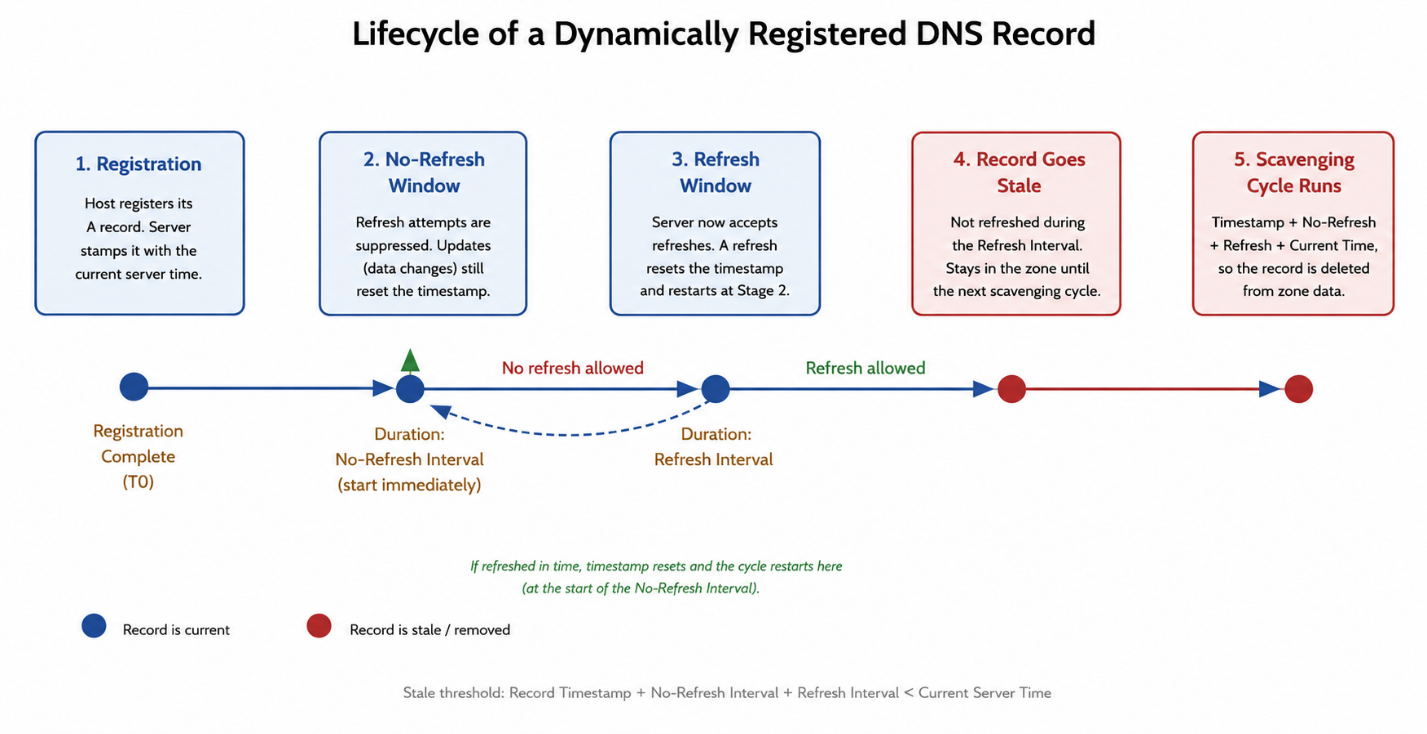
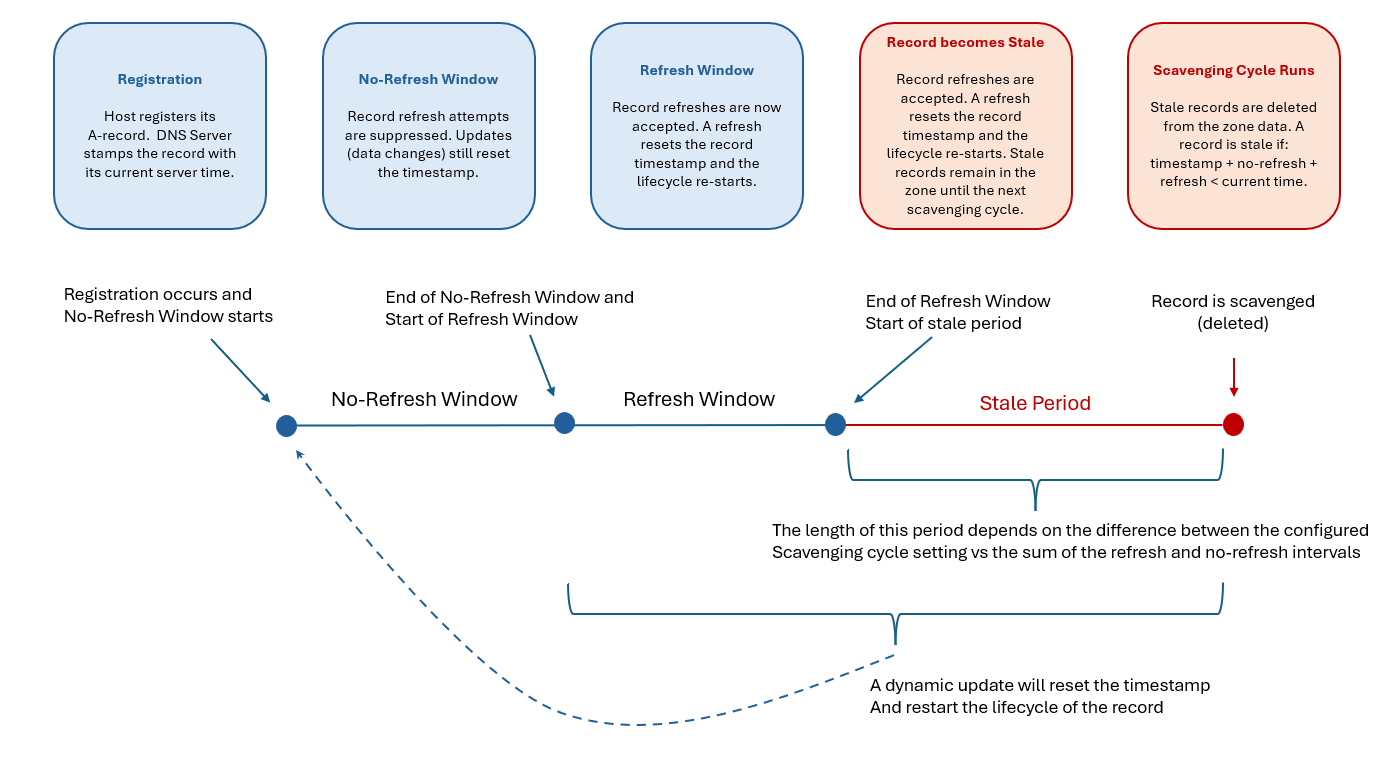
Update DNS aging and scavenging articles per SME feedback (#8421)
* Update DNS aging and scavenging articles per SME feedback

Apply the engineering/PM tracked changes: rename the term to 'available for scavenging time', standardize on 'scavenging pass', add scheduling, manual-pass, and zone-skip detail to When scavenging can start, refine the event-log timing guidance, add foundational prerequisites context, and various rewordings across both articles. Bump ms.date and add keywords.

* Updated WindowsServerDocs\networking\media\aging-scavenging\aging-scavenging-process.png

* Apply engineering review amendments to DNS aging and scavenging articles

Concept: drop redundant intro paragraph in stale-records section and add bold problem labels; move the 'aging never deletes' note into What aging does; clarify how a static record can gain a nonzero timestamp; tighten What scavenging does; trim the conditions summary; alphabetize the terminology table. How-to: broaden a prerequisite to DNS records, refine scavenging-server wording, and add a back-up-server-configuration best practice. Holds the 'Protect a record' note pending SME clarification of a timestamp-behavior conflict.

* Correct zero-timestamp record behavior and add PowerShell parity for aging and scavenging
[…]

diff --git a/WindowsServerDocs/networking/dns/aging-scavenging.md b/WindowsServerDocs/networking/dns/aging-scavenging.md
@@ -1,12 +1,13 @@
 ---
 title: DNS aging and scavenging in Windows Server
 description: Learn how DNS aging and scavenging in Windows Server find and remove stale resource records, including terminology, intervals, and the record lifecycle.
+keywords: ["DNS aging and scavenging", "stale resource records", "no-refresh interval", "refresh interval", "scavenging period", "available for scavenging time", "when scavenging can start"]
 ms.topic: concept-article
 author: robinharwood
 ms.author: roharwoo
-ms.date: 08/14/2026
+ms.date: 09/16/2026
 ai-usage: ai-assisted
-# Customer intent: As a DNS or AD DS administrator, I want to understand how aging and scavenging decide when a record is stale, so that I can enable them safely without deleting valid records.
+#customer intent: As a DNS or AD DS administrator, I want to understand how aging and scavenging decide when a record is stale, so that I can enable them safely without deleting valid records.
 ---
 
 # DNS aging and scavenging
@@ -15,19 +16,17 @@ DNS aging and scavenging are two DNS Server features in Windows Server that work
 
 With dynamic update, resource records are added to zones automatically, for example when computers join the network. But only an administrator or the aging and scavenging process removes these records. Without cleanup, stale records accumulate and cause name resolution problems.
 
-Aging and scavenging apply to Active Directory–integrated zones too. Active Directory Domain Services (AD DS) uses multi-master replication to propagate record additions, timestamp updates, and scavenged deletions to the DNS servers that host the zone within its replication scope. Replication itself doesn't remove stale records, so you still need aging and scavenging to identify and remove them.
+Aging and scavenging also apply to Active Directory–integrated zones. Active Directory replication alone doesn't remove stale records, so you still need these features on integrated zones.
 
 This article explains the terminology, intervals, and record lifecycle that aging and scavenging use to decide when a record is stale. Understanding these mechanics helps you enable the features with confidence, without deleting records that are still in use.
 
 ## Why stale records are a problem
 
-With dynamic update, resource records are automatically added to zones when computers start on the network, but they aren't always removed when computers leave. For example, if a computer registers its host (A) resource record at startup and is later improperly disconnected from the network, its host (A) resource record might not be deleted. On networks with mobile users and computers, this situation can occur frequently.
-
 If left unmanaged, stale resource records in zone data can cause the following problems:
 
-- DNS servers with stale resource records might use outdated information to answer client queries, which causes clients to experience name resolution problems on the network.
-- Many stale resource records can take up server disk space and cause long zone transfers.
-- The accumulation of stale resource records can degrade the DNS server's performance and responsiveness.
+- **Incorrect name resolution.** DNS servers with stale records might use outdated information to answer client queries, causing name resolution problems on the network.
+- **Higher zone storage and replication traffic.** Large numbers of stale records take up server disk space, make zone transfers take longer, and add load on the network.
+- **Performance degradation.** Accumulated stale records can degrade DNS server performance and responsiveness.
 
 > [!WARNING]
 > By default, aging and scavenging are disabled for the DNS Server service. Enable them only after you fully understand all the parameters. Accidental misconfiguration can delete legitimate records, leaving users unable to resolve those DNS records.
@@ -38,18 +37,18 @@ Aging and scavenging are two independent but complementary mechanisms. You must 
 
 ### What aging does
 
-Aging determines whether an incoming dynamic update can refresh the timestamp of a DNS record. Aging uses the no-refresh interval to decide whether a timestamp update is eligible. If a dynamic refresh arrives earlier than the record timestamp plus the no-refresh interval, the server discards it.
+Aging determines whether an incoming dynamic update can refresh the timestamp of a DNS record. Aging uses the no-refresh interval to decide whether a timestamp update is eligible. If a dynamic refresh arrives earlier than the record timestamp plus the no-refresh interval, the server discards it. Aging alone never deletes records; it only tracks timestamps.
 
 The DNS server distinguishes two kinds of records by their timestamp:
 
 - **Dynamic records (timestamp isn't zero)**: Records added through dynamic update. The timestamp represents the date and hour of the last allowed refresh or update.
-- **Static records (timestamp is zero)**: Records added manually or from a text-based zone file. The server assigns these records a timestamp of zero, so they aren't eligible for scavenging unless you later allow dynamic updates for the record, at which point the server can assign a timestamp during a subsequent update.
+- **Static records (timestamp is zero)**: Records added manually or from a text-based zone file get a timestamp of zero, so they aren't eligible for scavenging. Such a record can still receive dynamic updates to its data, such as a new IP address, but its timestamp stays zero, so it remains excluded from scavenging.
+
+You can also make the server treat a static record as a dynamic record by manually setting its timestamp to a nonzero value.
 
 ### What scavenging does
 
-Scavenging deletes stale records. It considers only records that have a nonzero timestamp, so it can scavenge only dynamic records. Scavenging is optional, but when you enable it, it runs automatically and periodically.
-
-Scavenging examines resource records and deletes the records that it identifies as stale. It determines the stale condition from the age that the aging process assigns to each record.
+Scavenging deletes stale records. It examines resource records and deletes the records it identifies as stale. Scavenging determines each record's stale condition from the age that the aging process assigns to the record.
 
 ### Conditions for scavenging a record
 
@@ -60,7 +59,7 @@ Scavenging removes a record only when it meets all four of the following conditi
 - The resource record is eligible (it has a nonzero timestamp).
 - The record timestamp plus the no-refresh interval plus the refresh interval is earlier than the current server time.
 
-Aging alone never deletes records; it only tracks timestamps. Scavenging runs automatically as scheduled even when aging is disabled, but it skips any zone that has aging disabled and takes no action on records in those zones, even records whose timestamps would otherwise mark them as stale. You must enable both aging and scavenging to clean up stale records automatically on a given zone.
+Scavenging runs automatically as scheduled even when aging is disabled, but it skips any zone that has aging disabled and takes no action on records in those zones, even records whose timestamps would otherwise mark them as stale.
 
 ## Terminology and intervals
 
@@ -68,20 +67,20 @@ The following terms apply when you discuss aging and scavenging.
 
 | Term | Definition |
 |---|---|
+| Active Directory replication scope | The setting that defines which DNS servers receive an Active Directory–integrated zone through AD DS replication. The zone can replicate to all DNS servers running on domain controllers in the domain or forest, or to all domain controllers in the domain for Windows 2000 compatibility. |
+| Available for scavenging time | A per-zone attribute that represents the earliest time at which the zone can participate in a scavenging pass. When you enable aging or change its settings, the server calculates it as: current server time (rounded down to the nearest hour) + the zone's refresh interval. Reaching this time doesn't itself start a scavenging pass on the zone or guarantee that the server deletes any records in it. For the formula, see [When scavenging can start](#when-scavenging-can-start). |
 | Current server time | The current date and time on the DNS server. It serves as the reference point for all aging calculations. |
-| No-refresh interval | The period after the server sets a record's timestamp, during which the server doesn't accept a timestamp refresh. This period reduces unnecessary replication traffic. The server acknowledges a same-data refresh as successful, but no database write occurs and the timestamp doesn't change. The server still writes updates that change record data. The default is 7 days. |
-| Refresh interval | The period after the no-refresh interval during which the server accepts a refresh. If the record isn't refreshed before this period ends, it becomes stale. The default is 7 days. |
-| Record refresh | A dynamic update that leaves the host name and IP address unchanged and revises only the timestamp. The server blocks refreshes during the no-refresh interval. |
-| Record update | A dynamic update in which the record data changes, such as a new IP address. The server always accepts updates, even during the no-refresh interval, and they reset the timestamp. |
-| Scavenging period | The interval between automatic scavenging operations on a DNS server. The default is 7 days and the minimum is 1 hour. It resets whenever the DNS service restarts. |
-| Start scavenging time | A per-zone value that indicates when the zone first becomes eligible for scavenging. For the formula, see [When scavenging can start](#when-scavenging-can-start). |
-| Resource record timestamp | The date and time value stamped on a record, to the nearest hour, by the aging process or manually by an administrator. Scavenging uses it to determine whether the record is stale. |
-| Scavenging servers | An optional advanced zone parameter that configures which DNS server IP addresses can scavenge the zone. By default, every DNS server that hosts the zone can scavenge it. |
+| Directory polling interval | The interval at which the DNS Server service polls Active Directory for changes that other domain controllers make. Polling lets the DNS server detect and load updates that replicate through Active Directory. |
 | dnsNode | An Active Directory object that represents a DNS name within an Active Directory–integrated zone. A `dnsNode` can contain one or more DNS records for the same host name. For example, a `dnsNode` object represents a host named `server1.contoso.com` and can contain A, AAAA, or other record types. |
 | dnsRecord | The DNS record data stored within a `dnsNode` object, such as A, AAAA, CNAME, MX, and PTR records. Active Directory–integrated zones store record data, timestamps, and aging information as attributes of the `dnsNode` object. |
-| dnsTombstoned | An Active Directory attribute that marks a `dnsNode` as logically deleted after scavenging, an administrator, or an authorized dynamic update removes its last record. The DNS Server service sets the attribute, and then AD DS replicates the tombstoned object before permanently removing it. |
-| Active Directory replication scope | The setting that defines which DNS servers receive an Active Directory–integrated zone through AD DS replication. The zone can replicate to all DNS servers running on domain controllers in the domain or forest, or to all domain controllers in the domain for Windows 2000 compatibility. |
-| Directory polling interval | The interval at which the DNS Server service polls Active Directory for changes that other domain controllers make. Polling lets the DNS server detect and load updates that replicated through Active Directory. |
+| dnsTombstoned | An Active Directory attribute that marks a `dnsNode` as logically deleted after scavenging, an administrator, or an authorized dynamic update removes its last record. The DNS Server service sets the attribute, and then Active Directory Domain Services (AD DS) replicates the tombstoned object before permanently removing it. |
+| No-refresh interval | The period after the server sets a record's timestamp, during which the server doesn't accept a timestamp refresh. This period reduces unnecessary replication traffic. The server acknowledges a same-data refresh as successful, but no database write occurs and the timestamp doesn't change. The server still writes updates that change record data. The default is 7 days. |
+| Record refresh | A dynamic update that leaves the host name and IP address unchanged and revises only the timestamp. The server blocks refreshes during the no-refresh interval. |
+| Record update | A dynamic update in which the record data changes, such as a new IP address. The server always accepts updates, even during the no-refresh interval, and they reset the timestamp. |
+| Refresh interval | The period, starting after the no-refresh interval expires, during which the server accepts a refresh. A record becomes stale if it isn't refreshed before this period ends. The default is 7 days. |
+| Resource record timestamp | The date and time value stamped on a record, to the nearest hour, by the aging process or manually by an administrator. Scavenging uses it to determine whether the record is stale. |
+| Scavenging period | The interval between automatic scavenging passes on a DNS server. It resets whenever the DNS service restarts. The default is 7 days and the minimum is 1 hour. |
+| Scavenging servers | An optional advanced zone parameter that configures which DNS server IP addresses can scavenge the zone. By default, every DNS server that hosts the zone can scavenge it. |
 
 ### Stale record calculation
 
@@ -89,62 +88,74 @@ A record is stale and eligible for deletion by scavenging when the following con
 
 *Record timestamp + no-refresh interval + refresh interval < current server time*
 
-With default settings (7 days plus 7 days), a record that isn't refreshed within 14 days becomes stale. The actual deletion depends on when the next scavenging cycle runs, so a stale record can persist for up to the no-refresh interval plus the refresh interval plus the scavenging period, which is up to 21 days with all defaults.
+With default settings (7 days plus 7 days), a record that isn't refreshed within 14 days becomes stale. Scavenging deletes the record during the next pass, so in the worst case a stale record can persist for the combined no-refresh, refresh, and scavenging periods. For example, that's up to 21 days with all defaults.
 
-## How aging and scavenging work
+## Resource record lifecycle
 
-To understand the process, consider the life span and stages of a single resource record on a server and zone where aging and scavenging are enabled.
-
-### Record lifecycle
-
-The following steps describe the complete life of a dynamically registered record on a DNS server and zone where aging and scavenging are enabled:
+To understand the process, consider the life span and stages of a single resource record on a server and zone where aging and scavenging are enabled. The following steps describe the complete life of a dynamically registered record:
 
 1. **The record is created.** A host, such as `host-a.example.contoso.com`, registers its host (A) resource record with the DNS server. The server stamps the record with the current server time, to the nearest hour.
 
-1. **The record lives without updates.** Immediately after registration, the no-refresh interval starts. During this interval, the server suppresses refresh attempts for the record, which reduces Active Directory replication traffic. The server still accepts updates that change record data, such as a new IP address, and each update resets the record timestamp.
+1. **The record lives without updates.** Immediately after registration, the no-refresh interval starts. During this interval, the server suppresses refresh attempts for the record, which reduces Active Directory replication traffic. The server still accepts updates that change record data, such as a new IP address, and each such update resets the record timestamp.
 
 1. **The refresh window opens.** After the no-refresh interval expires, the refresh interval begins and the server accepts refreshes. When the server processes a refresh, it resets the timestamp and the no-refresh interval starts again.
 
-1. **The record becomes stale.** If the record isn't refreshed during the refresh interval, it becomes stale. The record remains in the zone until the next scavenging cycle runs.
+1. **The record becomes stale.** If the record isn't refreshed during the refresh interval, it becomes stale. The record remains in the zone until the next scavenging pass runs.
 
-1. **The record is scavenged.** During scavenging, the server examines every record in the zone. For each record, the server compares the current server time to the following sum:
+1. **The record is scavenged.** During a scavenging pass, the server examines all records in zones that are eligible for scavenging. For each record that has a nonzero timestamp, the server compares the current server time to the following sum:
 
    *Record timestamp + no-refresh interval + refresh interval*
 
    - If the sum is greater than the current server time, the server takes no action and the record keeps aging in the zone.
-   - If the sum is less than the current server time, the server removes the record from the zone data in server memory. For a directory-integrated zone, the server writes the deletion to AD DS, which replicates it to the other DNS servers that host the zone so they remove their copies of the record.
+   - If the sum is less than the current server time, the server removes the record from the zone data in server memory. For an Active Directory–integrated zone, the server writes the deletion to AD DS, which replicates it to the other DNS servers that host the zone so they remove their copies of the record.
 
 The following diagram shows the lifecycle of a resource record through the no-refresh interval, refresh interval, stale state, and scavenging.
 
 :::image type="content" source="../media/aging-scavenging/aging-scavenging-process.png" alt-text="Timeline diagram tracing a DNS record from registration through the no-refresh and refresh intervals to the stale state and scavenging deletion.":::
 
-### When scavenging can start
+## When scavenging can start
 
-Scavenging can start for a zone when the current server time is greater than the zone's start scavenging time. The server sets the start scavenging time for each zone whenever any of the following events occur:
+Scavenging can start for a zone when the current server time is later than the zone's *available for scavenging time*. The available for scavenging time is a per-zone value that marks the earliest time the zone can participate in a scavenging pass. The server calculates it as:
+
+*Available for scavenging time = current server time (rounded down to the nearest hour) + refresh interval*
+
+When you first enable aging on a zone, or change the aging settings on the zone, this calculation gives the zone one refresh interval of protection before it becomes eligible for scavenging.
+
+Automatic scavenging is a DNS server-wide behavior. You control it with a server-level scavenging toggle and a scavenging interval, known as the scavenging period. When you enable the toggle, the server runs a scavenging pass once per scavenging period.
+
+When scavenging is already enabled as the DNS Server service starts, the server schedules the first scavenging pass one scavenging period after startup, and it schedules each subsequent pass one scavenging period after the previous one.
+
+When you enable scavenging while the DNS service is already running and the server hasn't scavenged before, a pass normally becomes due at the next periodic server check, typically within a few minutes.
+
+You can also start a scavenging pass manually through DNS Manager (MMC) or PowerShell. A manual pass bypasses the schedule, but it doesn't bypass zone eligibility or record-aging requirements, and it doesn't change the automatic schedule.
+
+A scavenging pass skips a zone when any of the following conditions apply:
+
+- The server isn't an authorized scavenging server for the zone.
+- Aging is disabled on the zone.
+- The current server time is earlier than the zone's available for scavenging time.
+- The zone is paused, a cache zone, or an offline-signed zone.
+- The zone's Active Directory directory partition hasn't replicated since the DNS server started.
+
+The server resets the available for scavenging time on a zone whenever any of the following events occur:
 
 - You enable dynamic updates for the zone.
 - The **Scavenge stale resource records** checkbox state changes.
 - The DNS Server service starts and loads a scavenging-enabled primary zone.
 - A zone resumes service after a pause.
 
-After you enable aging on a zone, the zone gets one refresh interval of scavenging protection before it becomes eligible for scavenging.
+## Behavior in Active Directory–integrated zones
 
-The server calculates the start scavenging time as:
+In an Active Directory–integrated zone, the server stores zone data in AD DS and replicates it through Active Directory rather than in a local text-based zone file. The server uses standard zone transfers (AXFR or IXFR) only when you configure an Active Directory–integrated zone to serve a conventional, non-integrated secondary DNS server; otherwise, zone data propagates only through Active Directory replication. AD DS stores all resource records for the same name, such as the A and AAAA records for `host.contoso.com`, in a single `dnsNode` object as values of its multi-valued `dnsRecord` attribute.
 
-*Current server time (rounded down to the nearest hour) + refresh interval*
-
-### Behavior in Active Directory–integrated zones
-
-In an Active Directory–integrated zone, the server stores zone data in AD DS and replicates it through Active Directory rather than in a local text-based zone file. AD DS stores all resource records for the same name, such as the A and AAAA records for `host.contoso.com`, in a single `dnsNode` object as values of its multi-valued `dnsRecord` attribute.
+Replication propagates record additions, timestamp updates, and scavenged deletions between DNS servers, but it doesn't remove stale records on its own. You still need aging and scavenging to identify and remove stale records in an Active Directory–integrated zone.
 
 Scavenging and tombstoning are distinct operations:
 
-- **Scavenging** removes stale `dnsRecord` values. When the server scavenges a stale record, it removes the corresponding `dnsRecord` value. If other records remain for that name, the `dnsNode` object remains.
-- **Tombstoning** is the Active Directory deletion state for the `dnsNode` object after its last record is gone. When the server removes the final record, the DNS Server service sets `dnsTombstoned` to `TRUE`, AD DS replicates the logical deletion so that other DNS servers hosting the zone stop loading the node, and normal directory cleanup removes the object later.
+- **Scavenging** removes stale `dnsRecord` values. When the server scavenges a stale record, it removes the corresponding `dnsRecord` value. If other `dnsRecord` values remain for the `dnsNode`, the node remains.
+- **Tombstoning** is the Active Directory deletion state for the `dnsNode` object after its last record is gone. If the server removes the final `dnsRecord`, the DNS Server service marks the `dnsNode` as tombstoned. AD DS replicates this marking so that other DNS servers hosting the zone also stop loading the `dnsNode`, and normal DNS and AD DS cleanup removes the directory object later.
 
-The server uses standard zone transfers (AXFR or IXFR) only when you configure an Active Directory–integrated zone to serve a conventional, non-integrated secondary DNS server. Otherwise, zone data propagates only through Active Directory replication.
-
-### Why we recommend one scavenging server per zone
+## Why we recommend one scavenging server per zone
 
 Enable server-level scavenging on only one DNS server per zone. Don't configure multiple scavenging servers per zone because:
 

diff --git a/WindowsServerDocs/networking/dns/configure-aging-scavenging.md b/WindowsServerDocs/networking/dns/configure-aging-scavenging.md
@@ -1,10 +1,11 @@
 ---
 title: Configure DNS aging and scavenging in Windows Server
 description: Enable, configure, verify, and operate DNS aging and scavenging on Windows Server using DNS Manager or the DnsServer PowerShell module.
+keywords: ["configure DNS aging and scavenging", "enable DNS scavenging", "scavenging pass", "Set-DnsServerScavenging", "Set-DnsServerZoneAging", "Start-DnsServerScavenging", "DNS scavenging event 2501"]
 author: robinharwood
 ms.author: roharwoo
 ms.topic: how-to
-ms.date: 08/14/2026
+ms.date: 09/23/2026
 ai-usage: ai-assisted
 
 #customer intent: As a DNS or AD DS administrator, I want to enable, configure, verify, and operate DNS aging and scavenging so that stale resource records are removed automatically without deleting records that are still in use.
@@ -25,9 +26,9 @@ Before aging and scavenging can function, make sure the following prerequisites 
 - A server running Windows Server with the DNS Server role installed. You configure this server.
 - Administrative permissions to manage the DNS server: membership in the DnsAdmins group or the local Administrators group on the DNS server. For an Active Directory-integrated zone, use an account that's a member of the Domain Admins group.
 - The DNS management tools for the method you use: DNS Manager, which installs with the DNS Server role or through Remote Server Administration Tools (RSAT), and the DnsServer PowerShell module. This article documents both methods.
-- Server-level scavenging enabled on each DNS server where you want it. This setting doesn't replicate, so configure it individually on every server that scavenges.
-- Zone-level aging enabled on your zones. For an Active Directory-integrated zone, enable aging once and the setting replicates with the zone data to other DNS servers that host the zone. For a non-AD-integrated zone, enable aging on each zone individually. For a standard primary zone, configure aging on the primary DNS server.
-- Dynamic records with a nonzero timestamp. Records added dynamically receive a timestamp automatically. Records added manually, from the DNS console or a text-based zone file, receive a timestamp of zero, which excludes them from scavenging until you assign a nonzero timestamp.
+- Server-level scavenging enabled on each DNS server where you want it. This setting doesn't replicate, so configure it individually on every server that needs to scavenge.
+- Zone-level aging enabled on your zones. For an AD-integrated zone, enable aging once and the setting replicates with the zone data to other DNS servers that host the zone. For a non-AD-integrated zone, enable aging in each zone individually. For a standard primary zone, configure aging on the primary DNS server.
+- DNS records with a nonzero timestamp. Records added dynamically receive a timestamp automatically. Records added manually, from the DNS console or a text-based zone file, receive a timestamp of zero, which excludes them from scavenging until you assign a nonzero timestamp.
 - A supported zone type. Aging and scavenging apply only to standard primary and AD-integrated zones. Secondary and stub zones don't support these processes.
 
 > [!WARNING]
@@ -44,14 +45,14 @@ Use DNS Manager (`dnsmgmt.msc`) when you prefer a graphical interface. The follo
 ### Enable aging on a zone
 
 1. Open DNS Manager (`dnsmgmt.msc`).
-1. Right-click the zone, select **Properties**, and then select **Aging**.
+1. Select and hold (or right-click) the zone, select **Properties**, and then select **Aging**.
 1. Select **Scavenge stale resource records**.
 1. Set the **No-refresh interval** and the **Refresh interval**. The default of seven days for each interval suits most environments.
 1. Select **OK**.
 
 :::image type="content" source="../media/configure-aging-scavenging/enable-zone-aging.png" alt-text="Screenshot of the Aging tab in a zone's Properties dialog box with Scavenge stale resource records selected.":::
 
-The No-refresh interval suppresses unnecessary timestamp updates during that period. The Refresh interval lets active clients renew their timestamps during that period. A record becomes eligible for scavenging only after both intervals elapse, which is 14 days with the defaults. The next scavenging cycle then deletes it. Shorter intervals remove stale records sooner but increase replication traffic and the risk of deleting records for clients that are temporarily offline.
+The No-refresh interval suppresses unnecessary timestamp updates during that period. The Refresh interval lets active clients renew their timestamps during that period. A record becomes eligible for scavenging (that is, the server considers it stale) only after both intervals elapse, which is 14 days with the defaults. The next scavenging pass on an eligible zone deletes any stale records it finds. Shorter intervals remove stale records sooner but increase replication traffic and the risk of deleting records for clients that are temporarily offline.
 
 :::image type="content" source="../media/configure-aging-scavenging/aging-properties.png" alt-text="Screenshot of the No-refresh interval and Refresh interval values set to 7 days each in the zone Aging dialog box.":::
 
@@ -59,7 +60,7 @@ The No-refresh interval suppresses unnecessary timestamp updates during that per
 
 Use this task to apply aging settings to every zone at once, including existing AD-integrated zones.
 
-1. Right-click the server name, and then select **Set Aging/Scavenging for All Zones**.
+1. Select and hold (or right-click) the server name, select **Set Aging/Scavenging for All Zones**.
 1. Select **Scavenge stale resource records** and set the intervals.
 1. Select **OK**.
 1. Select **Apply these settings to the existing Active Directory-integrated zones**, and then select **OK**.
@@ -71,7 +72,7 @@ The **Apply these settings to the existing Active Directory-integrated zones** o
 :::image type="content" source="../media/configure-aging-scavenging/apply-existing-zones.png" alt-text="Screenshot of the confirmation dialog box to apply aging and scavenging settings to existing Active Directory-integrated zones.":::
 
 > [!NOTE]
-> After you enable aging on a zone, the zone receives one refresh interval of scavenging protection. Pre-existing records might already be stale based on their current timestamps, so scavenging can remove them before the first scheduled cycle. The next scavenging cycle timestamp appears only after the first scavenging cycle finishes.
+> When you first enable aging on a zone, the zone gets one refresh interval of protection from scavenging. This grace period prevents the server from deleting records that look stale by timestamp but that clients might have updated while aging was disabled, when the server wasn't recording those timestamps. The grace period lets dynamic updates refresh those records before scavenging deletes them.
 
 ### Enable automatic scavenging on the server
 
@@ -94,7 +95,7 @@ To protect a critical record from scavenging, clear its timestamp:
 When you clear this checkbox, it sets the record's timestamp to zero, which prevents scavenging.
 
 > [!NOTE]
-> For a dynamically updated record, clearing the checkbox doesn't block authorized dynamic updates from setting a nonzero timestamp. The record can become eligible for scavenging again after such an update.
+> A record with a zero timestamp can still receive dynamic updates to its data, such as a new IP address, but its timestamp stays zero. The record stays protected from scavenging. The record becomes eligible for scavenging again only if you set a nonzero timestamp on it.
 
 # [PowerShell](#tab/powershell)
 
@@ -104,11 +105,11 @@ Use the DnsServer module cmdlets when you prefer the command line or need to scr
 |--|--|
 | `Get-DnsServerScavenging` | Retrieve the current scavenging settings from a DNS server. |
 | `Set-DnsServerScavenging` | Enable or configure server-level scavenging. Use `-ApplyOnAllZones` to push settings to all zones. |
-| `Start-DnsServerScavenging` | Trigger an immediate scavenging operation without waiting for the next scheduled cycle. This operation doesn't reset the next automatic cycle. Use `-Verbose` to see what's deleted. |
+| `Start-DnsServerScavenging` | Trigger an immediate scavenging pass without waiting for the next scheduled pass. This pass doesn't reset or change the next automatic pass. Use `-Verbose` to see what it deletes. |
 | `Set-DnsServerZoneAging` | Enable or configure aging on a specific zone. Use `-ScavengeServers` to restrict which servers scavenge the zone. |
 | `Get-DnsServerZoneAging` | Retrieve the aging settings for a specific zone. |
 
-Enable scavenging at the server level with a 7-day interval and apply it to all zones:
+Enable scavenging at the server level with a seven-day interval and apply it to all zones:
 
 ```powershell
 Set-DnsServerScavenging -ScavengingState $true -ScavengingInterval 7.00:00:00 -ApplyOnAllZones
@@ -121,6 +122,9 @@ Enable aging on a specific zone:
 ```powershell
 Set-DnsServerZoneAging -Name "contoso.com" -Aging $true -NoRefreshInterval 7.00:00:00 -RefreshInterval 7.00:00:00
 ```
+
+> [!NOTE]
+> When you first enable aging on a zone, the zone gets one refresh interval of protection from scavenging. This grace period prevents the server from deleting records that look stale by timestamp but that clients might have updated while aging was disabled, when the server wasn't recording those timestamps. The grace period lets dynamic updates refresh those records before scavenging deletes them.
 
 Restrict scavenging of a zone to a single DNS server:
 
@@ -135,27 +139,48 @@ Get-DnsServerScavenging
 Get-DnsServerZoneAging -Name "contoso.com"
 ```
 
-Trigger an immediate scavenging operation and see which records are deleted:
+Trigger an immediate scavenging pass and see which records it deletes:
 
 ```powershell
 Start-DnsServerScavenging -Verbose
+```
+
+### Protect a record from scavenging
+
+A record is protected from scavenging when it's static, which means its timestamp is zero. When you add a record by using `Add-DnsServerResourceRecordA` (or the generic `Add-DnsServerResourceRecord`) and omit the `-AgeRecord` switch, the new record has a zero timestamp and is never scavenged:
+
+```powershell
+Add-DnsServerResourceRecordA -ZoneName "contoso.com" -Name "criticalhost" -IPv4Address "192.0.2.50"
+```
+
+Including `-AgeRecord` does the opposite: it adds a timestamp so the record ages and becomes eligible for scavenging. The `Set-DnsServerResourceRecordAging` cmdlet also adds timestamps, but it stamps every record at a node, or the whole zone with `-Recurse`, and requires you to enable zone-level aging first. Don't use it to age a single record.
+
+No single cmdlet clears an existing record's timestamp. To protect an existing dynamically registered record, remove it and re-add it as a static record without `-AgeRecord`.
+
+> [!CAUTION]
+> Removing and re-adding the record temporarily removes the DNS name and creates a new administrator-created static record. This action changes the record's ownership and permissions and can affect later dynamic registration by the client. Before you remove the record, capture its existing data and assess how the ownership and permission changes affect later dynamic updates.
+
+Inspect a record's timestamp by using `Get-DnsServerResourceRecord`. A static, protected record shows a zero or empty timestamp:
+
+```powershell
+Get-DnsServerResourceRecord -ZoneName "contoso.com" -Name "criticalhost"
 ```
 
 ---
 
 ## Monitor scavenging with the event log
 
-After a scavenging cycle finishes, the DNS server writes one of the following events to the DNS server event log. Review these events to confirm that scavenging runs and to see which records scavenging removed.
+After a scavenging pass finishes, the DNS server writes one of the following events to the DNS server event log. Review these events to confirm that scavenging runs and to see which records scavenging removed.
 
 | Event ID | Meaning |
 |--|--|
-| 2501 | A scavenging cycle ran and records **were** scavenged. Check which records scavenging removed. For AD-integrated zones, deleted records are tombstoned and the change propagates through AD replication. |
-| 2502 | A scavenging cycle ran but **no** records were scavenged. This event indicates the normal, healthy state when all records are current. |
-| 4013 | The DNS server waits for Active Directory Domain Services to initialize before it loads AD-integrated zones. Scavenging is delayed until AD DS initialization finishes. |
+| 2501 | A scavenging pass ran and records **were** scavenged. Check which records scavenging removed. For AD-integrated zones, deleted records might be tombstoned and the change propagates through AD replication. |
+| 2502 | A scavenging pass ran but **no** records were scavenged. This event indicates the normal, healthy state when all records are current. |
+| 4013 | The DNS server waits for Active Directory Domain Services to initialize before it loads AD-integrated zones. The DNS server delays scavenging until AD DS initialization finishes. |
 | 4515 | The DNS server detects a duplicate zone in Active Directory, which can prevent the affected zone from loading or being scavenged correctly. Verify zone configuration and AD replication health. |
 | 4521 | The DNS server couldn't load an AD-integrated zone, so it can't scavenge the zone until you resolve the underlying error. Review the DNS Server and Directory Service event logs for details. |
 
-To determine when the next scavenging cycle runs, note the timestamp of the most recent event 2501 or 2502 and add the configured scavenging period to it.
+The DNS server schedules the next automatic pass for approximately the start time of the preceding pass plus the configured scavenging interval. Adding the scavenging period to the timestamp of event 2501 or 2502 gives an estimate, but the event time reflects completion of the pass rather than its start time.
 
 > [!TIP]
 > Monitor event ID 2501 regularly to confirm that scavenging runs and to review the records it removes.
@@ -167,6 +192,7 @@ For AD-integrated zones, also monitor the DNS Server and Directory Service event
 Follow these practices to operate scavenging safely:
 
 - **Test in a lab first.** Validate your configuration in a non-production environment before you enable it in production.
+- **Back up your DNS Server configuration.** Export your server configuration before you make changes.
 - **Back up your zone data.** Export zone data before you enable aging or trigger scavenging.
 - **Use one scavenging server per zone.** Restrict scavenging to a single DNS server with the `-ScavengeServers` parameter to simplify troubleshooting.
 - **Protect critical static records.** Create records for servers, printers, web services, and domain controllers as static records, and ensure you clear **Delete this record when it becomes stale**.
